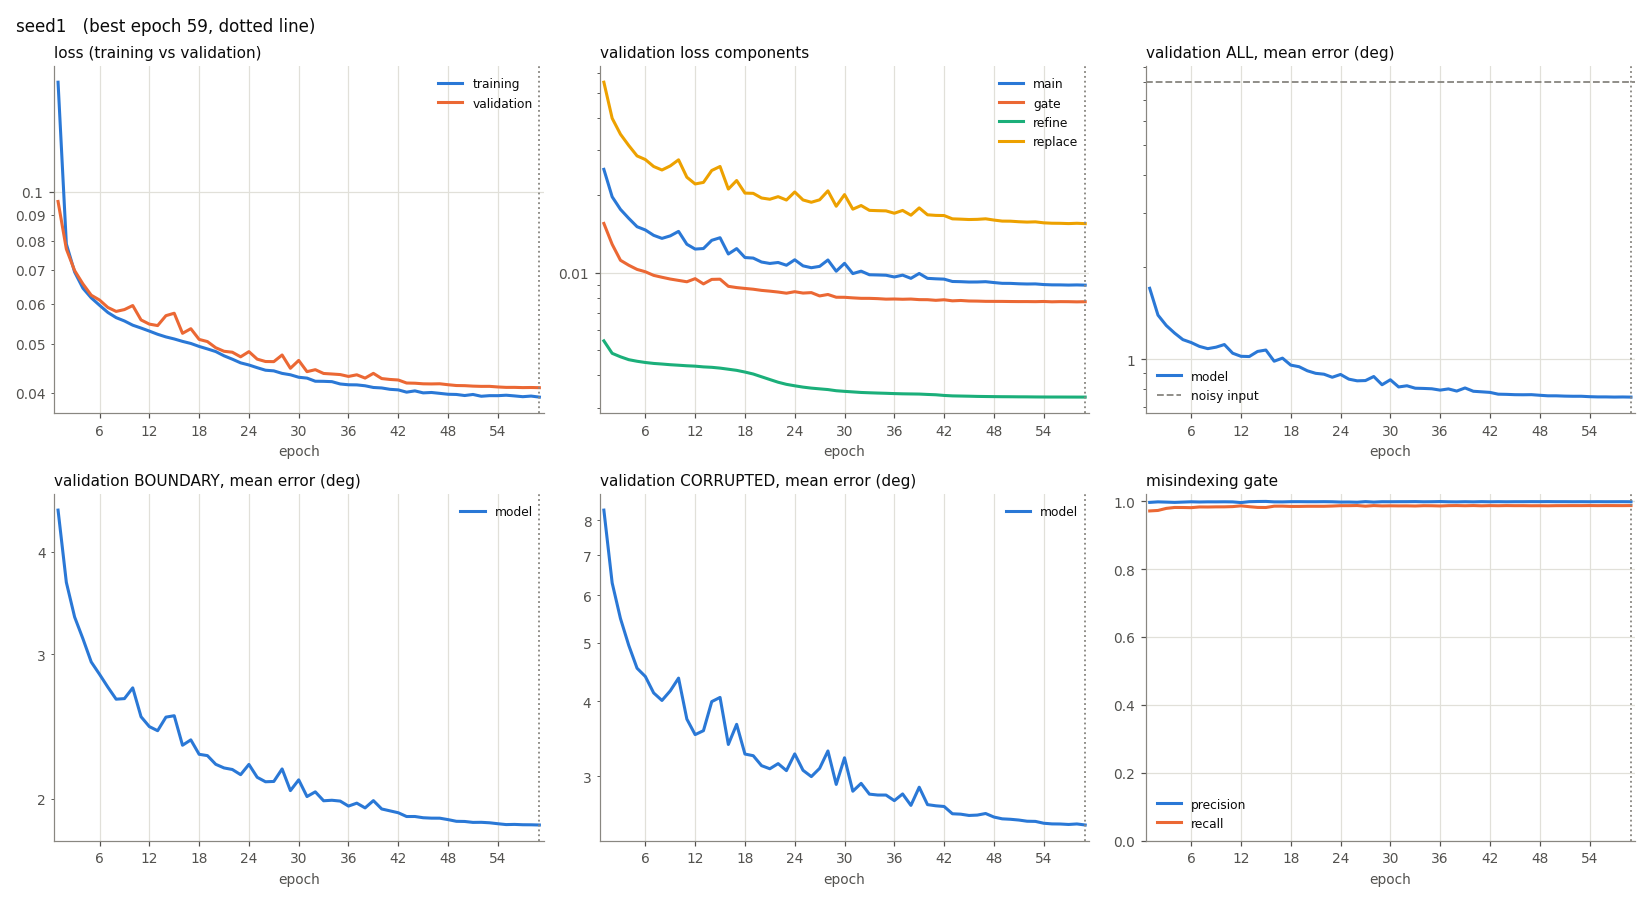
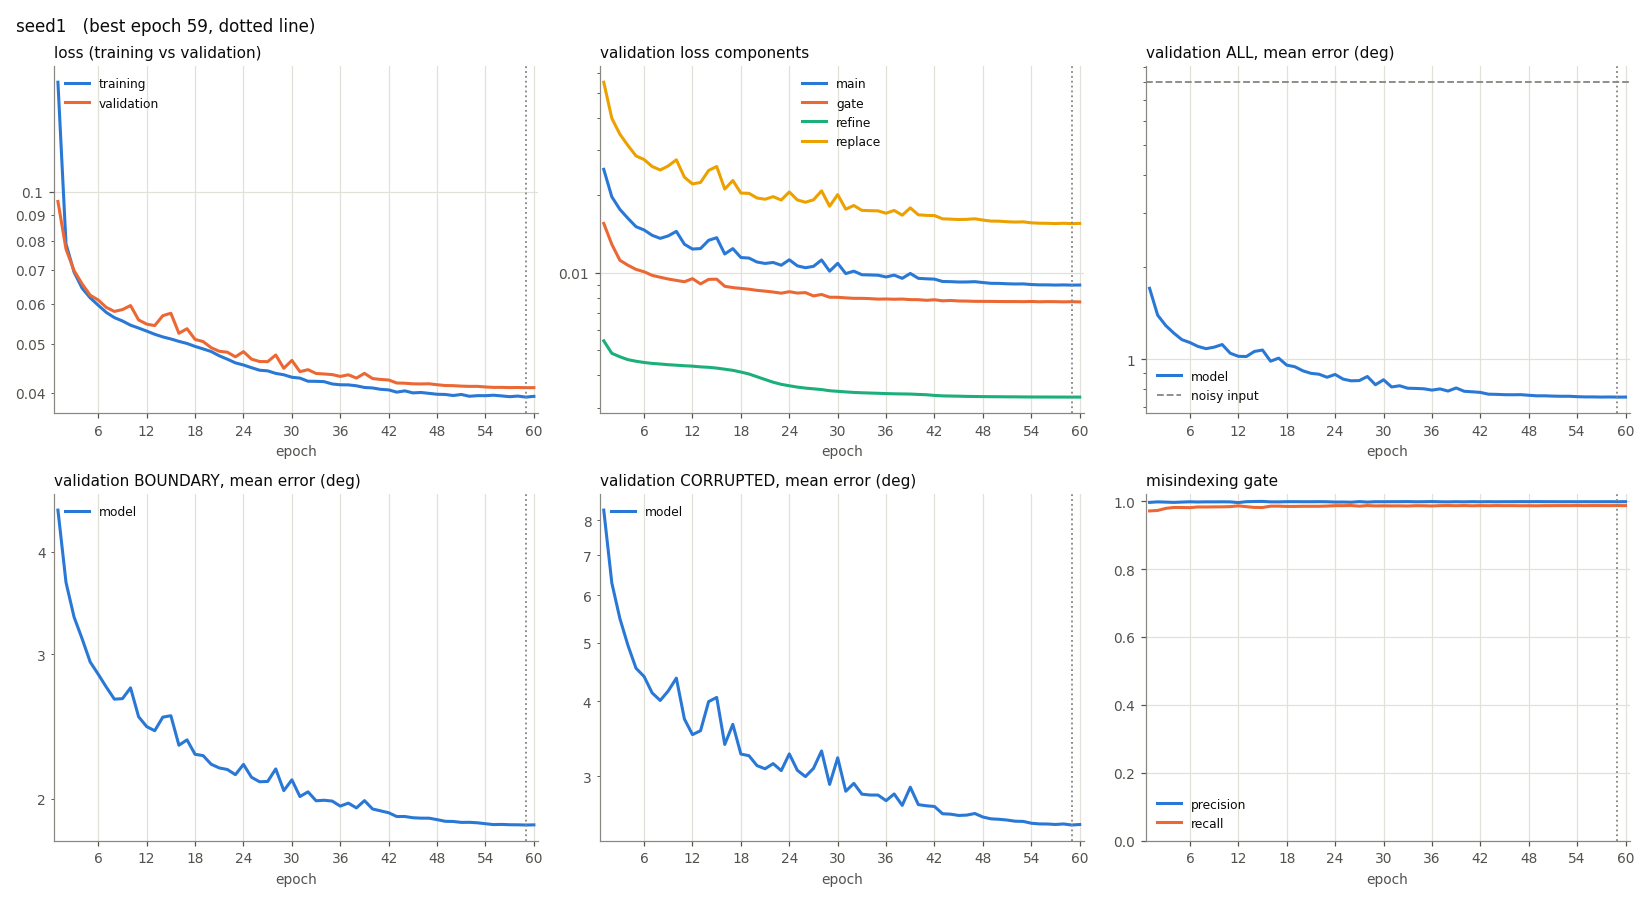
add inference

diff --git a/MAPS_DENOISING_Orientation_Noise/MODEL_PIPELINE/src/inference.py b/MAPS_DENOISING_Orientation_Noise/MODEL_PIPELINE/src/inference.py
@@ -204,7 +204,8 @@ def main():
     print(f"{args.method_name:<22}{avg['all']:>12.3f}{avg['bad']:>12.3f}"
           f"{avg['bnd']:>12.3f}{avg['gross']:>12.2f}")
     print("=" * 74)
-    print("\nnow run:  make score-all NOISE=<set>   (scores this against every MTEX method)")
+    print("\n(these are the model alone on every map; `make score-grid` compares it "
+          "with MTEX on the maps MTEX has)")
 
 
 if __name__ == "__main__":
